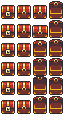
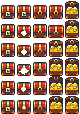
Chest animation

diff --git a/2DGame/02-Bubble/02-Bubble/Chest.cpp b/2DGame/02-Bubble/02-Bubble/Chest.cpp
@@ -7,11 +7,11 @@ Chest::Chest(int x, int y) {
 	//cout << initialPosition.x<<' '<< initialPosition.y << endl;
 	initialPosition = glm::ivec2(x, y);
 	position = initialPosition;
-	movement = { { LOCKED,150 },{ UNLOCKED, 150 },{ OPENING, 150 }, {OPENED, 150} };
+	movement = { { LOCKED,150 },{ UNLOCKING, 150 } , { UNLOCKED, 150 },{ OPENING, 150 }, {OPENED, 150} };
 	WIDTH = 16;
 	HEIGHT = 16;
 	HEIGHT_OFFSET = 0;
-	animationsUsed = { LOCKED, UNLOCKED, OPENING, OPENED };
+	animationsUsed = { LOCKED, UNLOCKING, UNLOCKED, OPENING, OPENED };
 	animationLength = 6;
 	open = false;
 	unlock = false;
@@ -25,10 +25,13 @@ void Chest::update(int deltaTime)
 	sprite->update(deltaTime);
 	time += deltaTime;
 	if (sprite->animation() == LOCKED && unlock) {
-		sprite->changeAnimation(UNLOCKED);
+		sprite->changeAnimation(UNLOCKING);
 	}
 	else if (sprite->animation() == UNLOCKED && open) {
 		sprite->changeAnimation(OPENING);
+	}
+	else if (sprite->animation() == UNLOCKING && sprite->getKeyFrame() > 3) {
+		sprite->changeAnimation(UNLOCKED);
 	}
 	else if (sprite->animation() == OPENING && sprite->getKeyFrame() > 3) {
 		sprite->changeAnimation(OPENED);

diff --git a/2DGame/02-Bubble/02-Bubble/Scene.cpp b/2DGame/02-Bubble/02-Bubble/Scene.cpp
@@ -211,7 +211,7 @@ void Scene::checkCollisions()
 	if (unlockChest) {
 		glm::ivec2 enemyMin = chest->getBoundingBoxMin();
 		glm::ivec2 enemyMax = chest->getBoundingBoxMax();
-		if ((playerMin.x < enemyMax.x && enemyMin.x < playerMax.x) && (playerMin.y < enemyMax.y && enemyMin.y < playerMin.y)) {
+		if ((playerMin.x < enemyMax.x && enemyMin.x < playerMax.x) && (playerMin.y < enemyMax.y && enemyMin.y < playerMax.y)) {
 			openChest = true;
 			chest->openChest();
 		}
@@ -255,7 +255,7 @@ void Scene::render(bool playing)
 	player->render();
 
 	// Print time
-	string textTime = std::to_string(60 - int(currentTime / 1000));
+	string textTime = std::to_string(120 - int(currentTime / 1000));
 	// Print shadow 
 	text.render(textTime, glm::vec2(455 + 3, 100 + 3), 40, glm::vec4(0, 0, 0, 1));
 	if (playing) text.render(textTime, glm::vec2(455, 100), 40, glm::vec4(1, 1, 1, 1));
@@ -275,7 +275,7 @@ void Scene::render(bool playing)
 
 bool Scene::isGameOver()
 {
-	return (player->getNumHearts() <= 0 || currentTime > 60000);
+	return (player->getNumHearts() <= 0 || currentTime > 120000);
 }
 
 bool Scene::isWin()

diff --git a/2DGame/02-Bubble/02-Bubble/Entity.h b/2DGame/02-Bubble/02-Bubble/Entity.h
@@ -7,7 +7,7 @@
 
 enum Animations 
 {
-	MOVE_LEFT, MOVE_RIGHT, STAND_LEFT, STAND_RIGHT, JUMP_LEFT, JUMP_RIGHT, DYING, PRESSED, MOVE_UP, LOCKED, UNLOCKED, OPENING, OPENED
+	MOVE_LEFT, MOVE_RIGHT, STAND_LEFT, STAND_RIGHT, JUMP_LEFT, JUMP_RIGHT, DYING, PRESSED, MOVE_UP, LOCKED, UNLOCKING, UNLOCKED, OPENING, OPENED
 };
 
 class Entity
